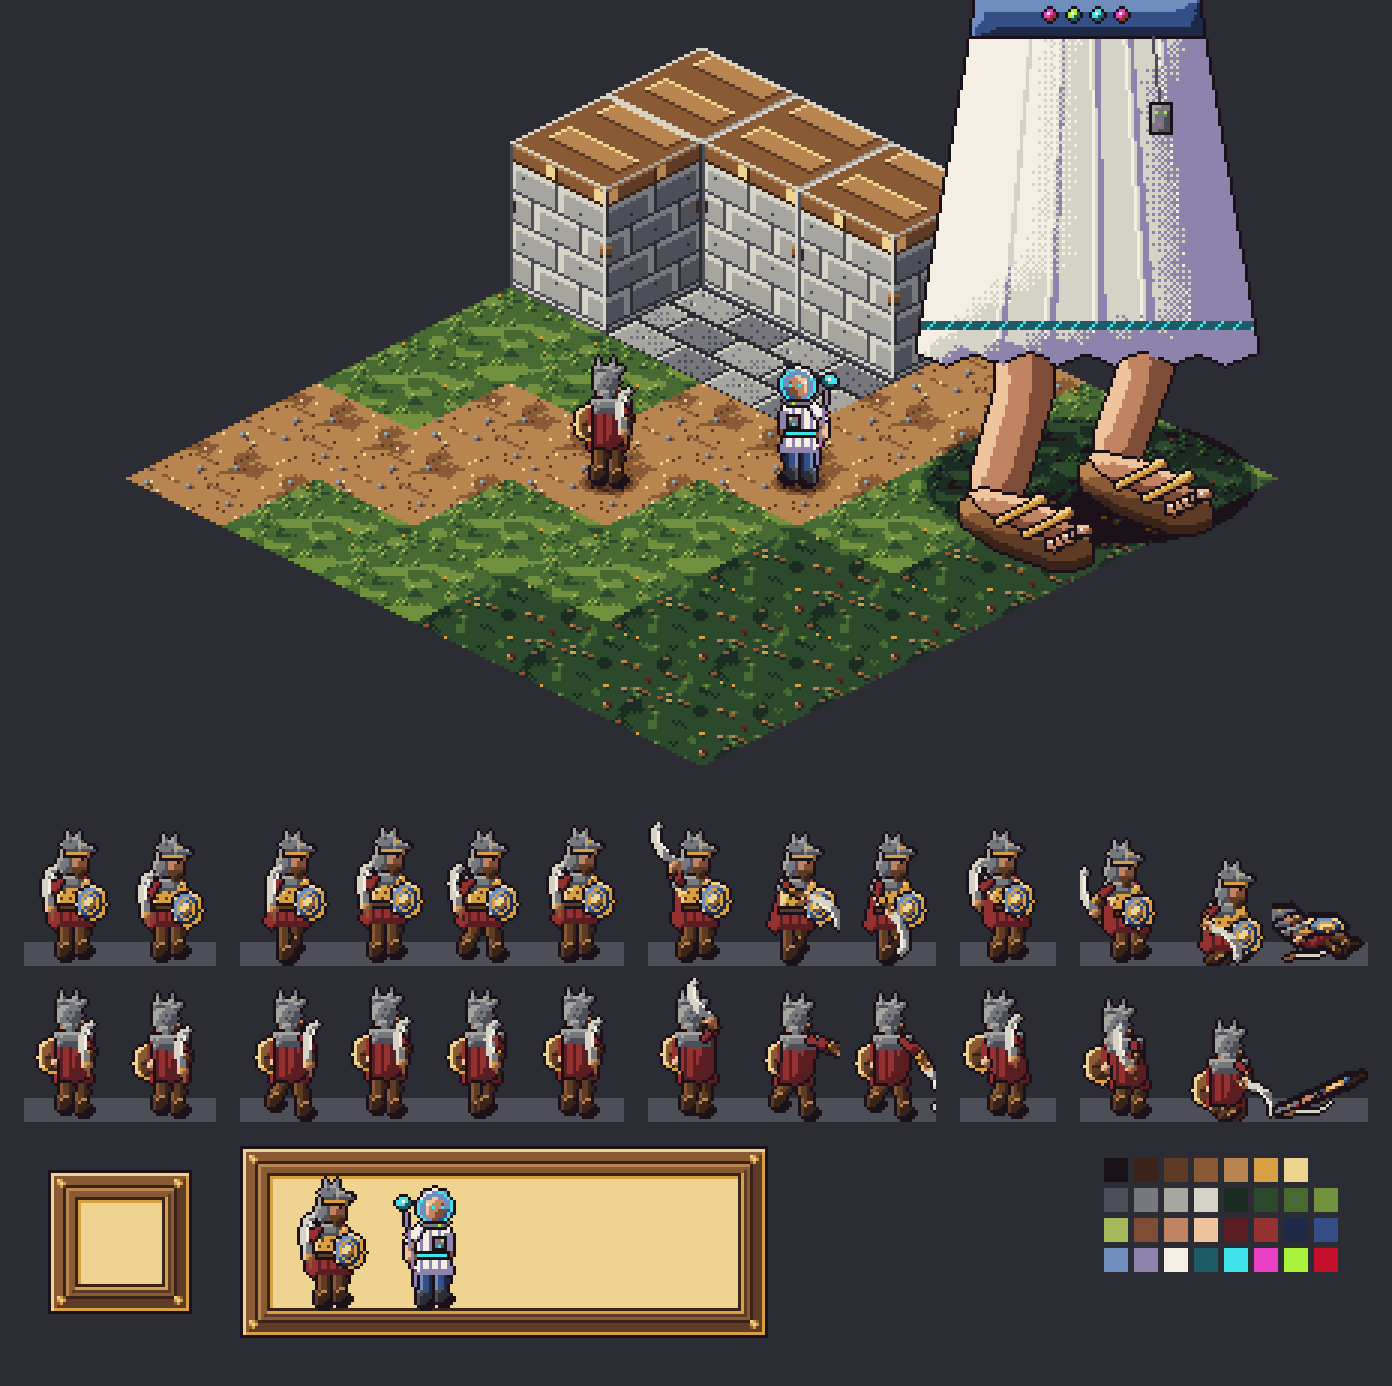
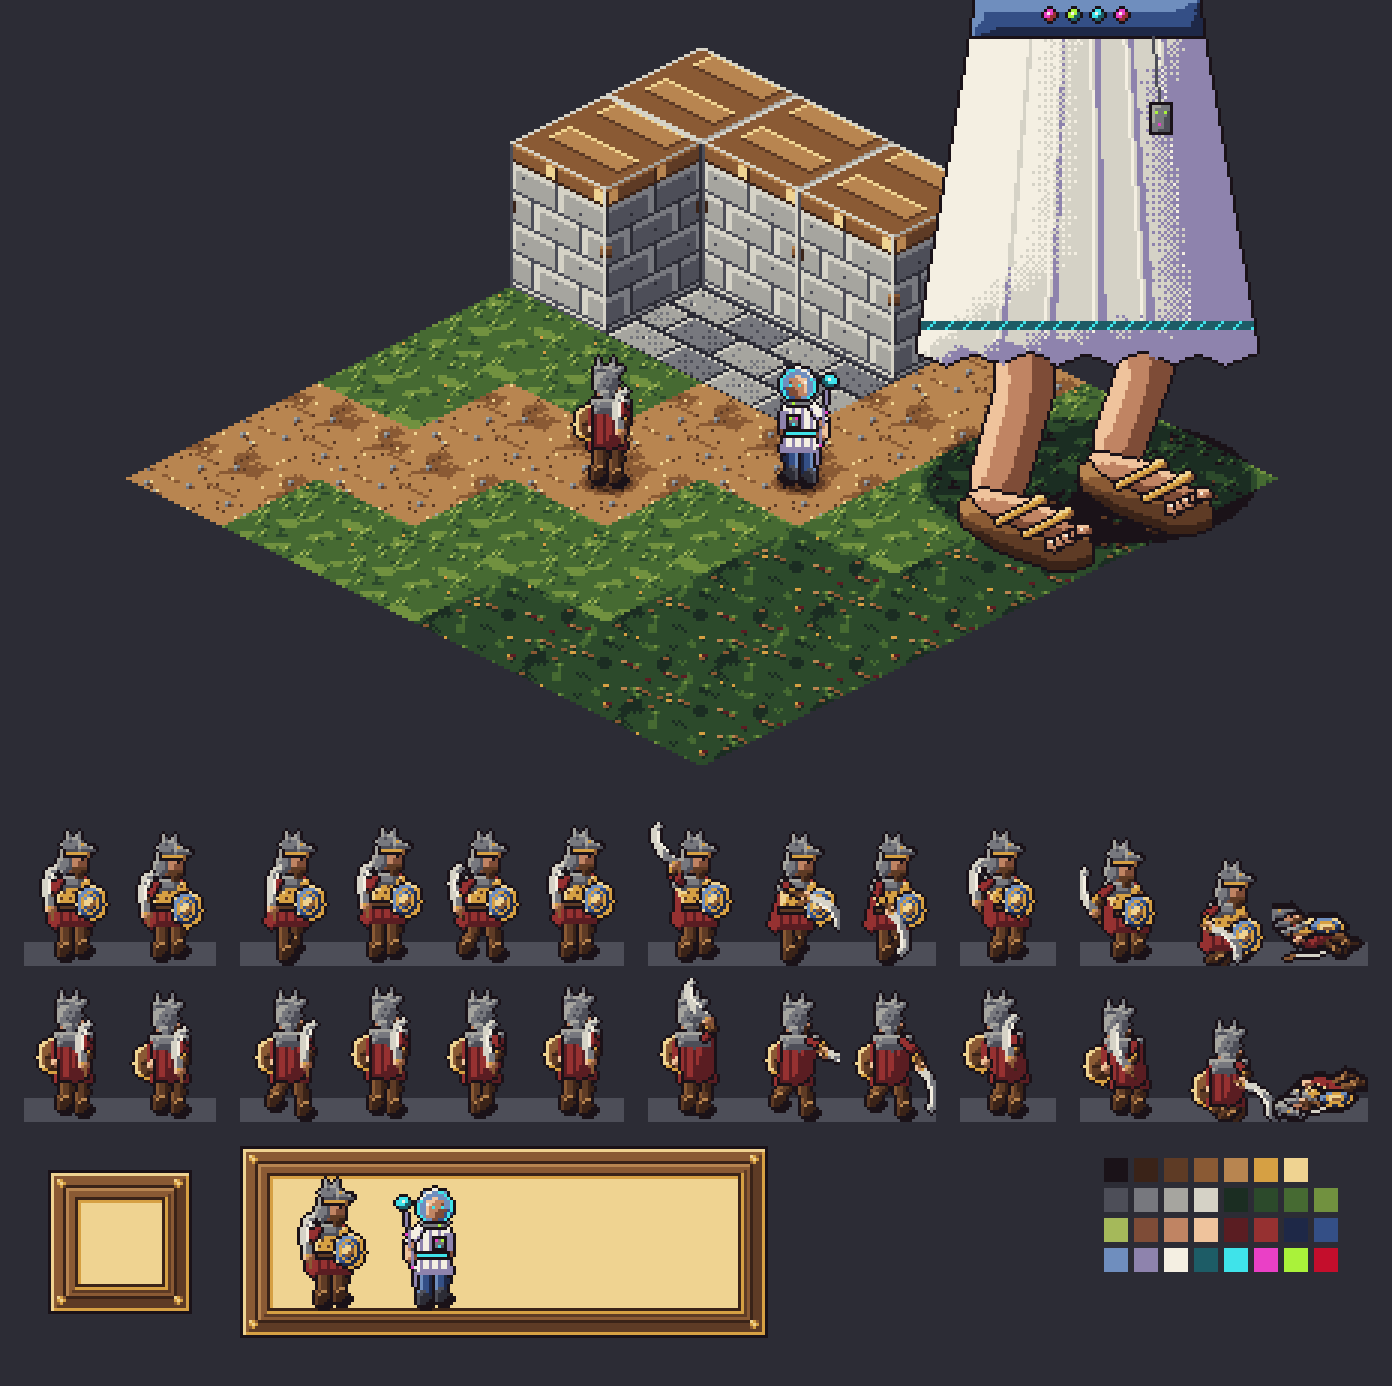
WP-14: art tests, pose fixes, grass and wall tweaks

diff --git a/tools/art/test_art.py b/tools/art/test_art.py
@@ -1,0 +1,164 @@
+#!/usr/bin/env python3
+"""Tests for the art pipeline. Plain python; exits non-zero on failure.
+
+    python3 tools/art/test_art.py
+"""
+import glob
+import hashlib
+import json
+import os
+import sys
+import tempfile
+
+import numpy as np
+from PIL import Image
+
+HERE = os.path.dirname(os.path.abspath(__file__))
+sys.path.insert(0, HERE)
+ROOT = os.path.dirname(os.path.dirname(HERE))
+
+import build  # noqa: E402
+import palette as P  # noqa: E402
+
+FAILS = []
+ART_DIRS = ["assets/sprites", "assets/tiles", "assets/ui"]
+REQUIRED_ANIMS = ["idle", "walk", "attack", "hit", "death"]
+DACIAN = ["knight", "tile_grass", "tile_road", "tile_forest_floor", "tile_stone", "tile_wall", "ui_panel"]
+
+
+def check(cond, msg):
+    if not cond:
+        FAILS.append(msg)
+
+
+def tree_hashes(root):
+    out = {}
+    for rel in ART_DIRS + ["docs"]:
+        for f in sorted(glob.glob(os.path.join(root, rel, "**", "*.png"), recursive=True)):
+            out[os.path.relpath(f, root)] = hashlib.sha256(open(f, "rb").read()).hexdigest()
+    m = os.path.join(root, "assets", "manifest.json")
+    out["assets/manifest.json"] = hashlib.sha256(open(m, "rb").read()).hexdigest()
+    return out
+
+
+def res_path(p):
+    assert p.startswith("res://"), p
+    return os.path.join(ROOT, p[len("res://"):])
+
+
+def load_rgba(path):
+    return np.array(Image.open(path).convert("RGBA"))
+
+
+def test_deterministic_and_committed():
+    with tempfile.TemporaryDirectory() as a, tempfile.TemporaryDirectory() as b:
+        build.build(a)
+        build.build(b)
+        ha, hb = tree_hashes(a), tree_hashes(b)
+        check(ha == hb, "two builds differ: %s" % sorted(k for k in ha if ha.get(k) != hb.get(k)))
+        committed = tree_hashes(ROOT)
+        for k, v in ha.items():
+            check(committed.get(k) == v, "%s is stale: run python3 tools/art/build.py" % k)
+
+
+def test_palette_only():
+    pal = np.array(P.RGB, dtype=np.int32)
+    files = []
+    for rel in ART_DIRS:
+        files += glob.glob(os.path.join(ROOT, rel, "**", "*.png"), recursive=True)
+    files.append(os.path.join(ROOT, "docs", "art-spike.png"))
+    check(len(files) >= 10, "expected the spike's PNGs, found %d" % len(files))
+    for f in files:
+        px = load_rgba(f).reshape(-1, 4).astype(np.int32)
+        alpha = px[:, 3]
+        check(np.all((alpha == 0) | (alpha == 255)), "%s has partial transparency" % f)
+        rgb = px[alpha == 255][:, :3]
+        key = rgb[:, 0] * 65536 + rgb[:, 1] * 256 + rgb[:, 2]
+        allowed = pal[:, 0] * 65536 + pal[:, 1] * 256 + pal[:, 2]
+        bad = np.unique(key[~np.isin(key, allowed)])
+        check(bad.size == 0, "%s uses %d off-palette colours, e.g. #%06x" % (f, bad.size, bad[0] if bad.size else 0))
+
+
+def test_manifest():
+    m = json.load(open(os.path.join(ROOT, "assets", "manifest.json")))
+    check(set(m.keys()) == {"textures", "frames", "audio"}, "manifest sections: %s" % sorted(m))
+    for tid, p in m["textures"].items():
+        check(isinstance(p, str) and os.path.exists(res_path(p)), "texture %s: missing %s" % (tid, p))
+    for fid, e in m["frames"].items():
+        path = res_path(e["sheet"])
+        if not os.path.exists(path):
+            check(False, "frames %s: missing %s" % (fid, e["sheet"]))
+            continue
+        img = load_rgba(path)
+        h, w = img.shape[:2]
+        fw, fh = e["frame_size"]
+        rows = set()
+        for suffix in ("", "_ne"):
+            for a in REQUIRED_ANIMS:
+                check(a + suffix in e["anims"], "frames %s lacks anim %s" % (fid, a + suffix))
+        for name, a in e["anims"].items():
+            rows.add(a["row"])
+            check((a["row"] + 1) * fh <= h, "%s.%s: row %d outside sheet" % (fid, name, a["row"]))
+            check(a["frames"] * fw <= w, "%s.%s: %d frames wider than sheet" % (fid, name, a["frames"]))
+            for k in range(max(a["frames"], w // fw)):
+                cell = img[a["row"] * fh:(a["row"] + 1) * fh, k * fw:(k + 1) * fw, 3]
+                if k < a["frames"]:
+                    check(cell.any(), "%s.%s frame %d is empty" % (fid, name, k))
+                else:
+                    check(not cell.any(), "%s.%s has pixels past its %d frames" % (fid, name, a["frames"]))
+        check(h == len(rows) * fh and w % fw == 0, "%s: sheet %dx%d does not match %d rows of %dx%d" % (fid, w, h, len(rows), fw, fh))
+        check(len(e.get("anchor", [])) == 2, "%s: anchor missing" % fid)
+
+
+def test_dacian_assets_avoid_lobizi_colours():
+    m = json.load(open(os.path.join(ROOT, "assets", "manifest.json")))
+    lob = {P.RGB[P.IDX[n]] for n in P.LOBIZI}
+    for aid in DACIAN:
+        p = m["textures"].get(aid) or m["frames"].get(aid, {}).get("sheet")
+        if not p:
+            check(False, "missing asset %s" % aid)
+            continue
+        px = load_rgba(res_path(p)).reshape(-1, 4)
+        cols = {tuple(c[:3]) for c in px[px[:, 3] == 255]}
+        check(not (cols & lob), "%s uses colours reserved for Lobizi tech" % aid)
+
+
+def test_tiles_shape():
+    import kit as K
+    d = K.diamond()
+    check(int(d.sum()) == 64 * 32 // 2, "diamond area %d" % d.sum())
+    # four neighbours on the lattice cover every pixel of a big patch exactly once
+    cover = np.zeros((96, 192), int)
+    for cx in range(-3, 6):
+        for cy in range(-3, 6):
+            x, y = K.cell_to_world(cx, cy)
+            x, y = x + 64, y + 16
+            if -64 < x < 192 and -32 < y < 96:
+                sub = np.zeros_like(cover)
+                ys, xs = np.nonzero(d)
+                ok = (ys + y >= 0) & (ys + y < 96) & (xs + x >= 0) & (xs + x < 192)
+                sub[ys[ok] + y, xs[ok] + x] = 1
+                cover += sub
+    check(np.all(cover[32:64, 64:128] == 1), "diamonds do not tile the plane exactly")
+    for tid in ["tile_grass", "tile_road", "tile_forest_floor", "tile_stone"]:
+        a = load_rgba(os.path.join(ROOT, "assets", "tiles", tid + ".png"))
+        check(a.shape[:2] == (32, 64), "%s is %s" % (tid, a.shape[:2]))
+        check(np.array_equal(a[:, :, 3] == 255, d), "%s does not fill the diamond exactly" % tid)
+    w = load_rgba(os.path.join(ROOT, "assets", "tiles", "tile_wall.png"))
+    check(w.shape[1] == 64 and w.shape[0] > 32, "tile_wall is %s" % (w.shape[:2],))
+
+
+def main():
+    tests = [v for k, v in sorted(globals().items()) if k.startswith("test_") and callable(v)]
+    for t in tests:
+        n = len(FAILS)
+        t()
+        print("%s %s" % ("ok  " if len(FAILS) == n else "FAIL", t.__name__))
+    for f in FAILS:
+        print("  - " + f)
+    print("%d failures" % len(FAILS))
+    sys.exit(1 if FAILS else 0)
+
+
+if __name__ == "__main__":
+    main()

diff --git a/tools/art/gen_chars.py b/tools/art/gen_chars.py
@@ -130,7 +130,7 @@ def humanoid(g, facing, p):
 
     # arms
     nsh = (sx + 4 * near, sy + 1)
-    hand = (nsh[0] + p["wa"][0] * (1 if se else 1) + (0 if se else 4), nsh[1] + p["wa"][1])
+    hand = (min(27, max(4, nsh[0] + p["wa"][0] + (0 if se else 3))), nsh[1] + p["wa"][1])
     elbow = ((nsh[0] + hand[0]) / 2 + near * 1.5, (nsh[1] + hand[1]) / 2)
     near_arm = [path([nsh, elbow], 1.4, sleeve, edge=E),
                 path([elbow, hand], 1.3, g["forearm"], edge=E),
@@ -159,7 +159,7 @@ def humanoid(g, facing, p):
 def lying_xf(facing):
     if facing == "se":   # fell back toward north-west: head upper-left
         return R.Affine(pivot=(16, GROUND), m=((0.72, 0.66), (-0.36, 0.30)), o=(25, 42))
-    return R.Affine(pivot=(16, GROUND), m=((0.72, 0.66), (-0.36, -0.29)), o=(28, 33))
+    return R.Affine(pivot=(16, GROUND), m=((0.72, 0.66), (0.36, -0.29)), o=(28, 33))
 
 
 def human_frames(g):

diff --git a/tools/art/gen_tiles.py b/tools/art/gen_tiles.py
@@ -37,7 +37,7 @@ def _base(seed, levels, cuts, f1=6, f2=3, amp2=0.5):
 
 def tile_grass(spec):
     rnd = K.rng(spec["seed"])
-    t, d = _base(spec["seed"], [I["green1"], I["green2"], I["green3"]], [0.16, 0.66], f1=8, f2=6, amp2=0.8)
+    t, d = _base(spec["seed"], [I["green1"], I["green2"], I["green3"]], [0.12, 0.74], f1=8, f2=8, amp2=1.0)
 
     def tuft(r):
         # a blade pair: light tip upper-left, shadow root below right
